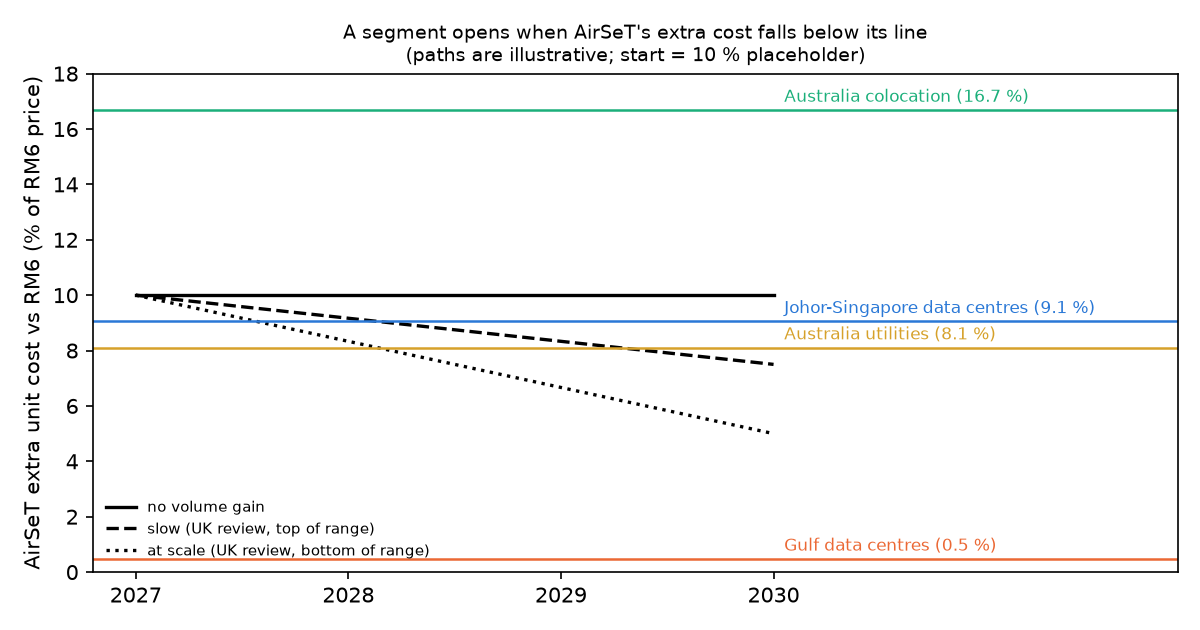
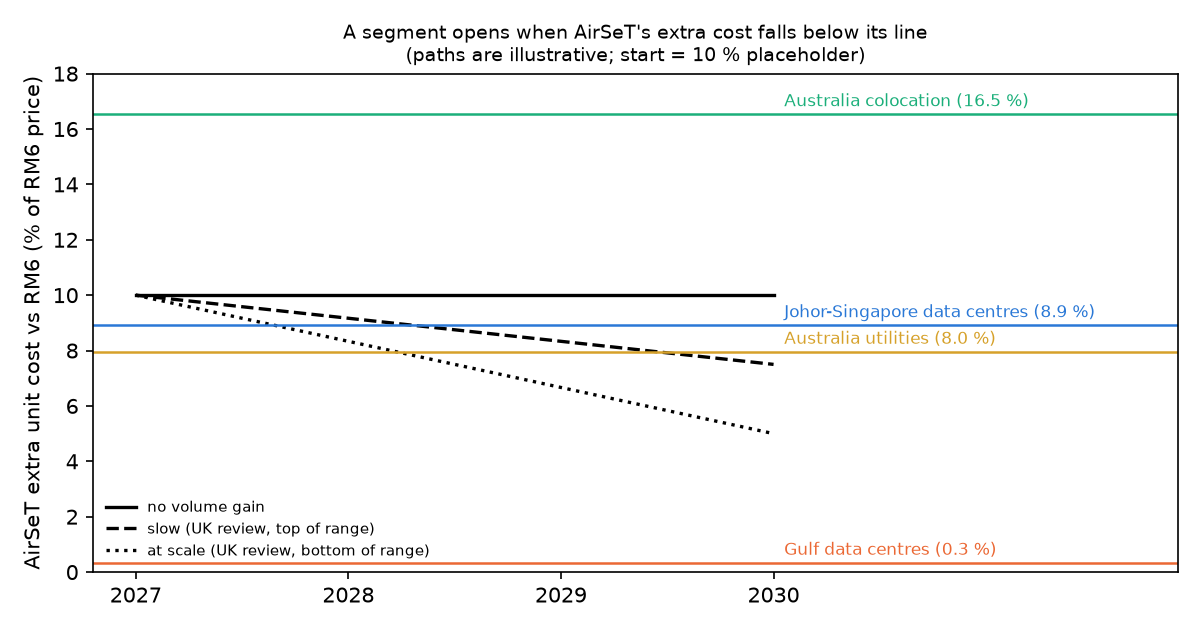
updated strategy with new bom

Changed region(s): [[0.0617, 0.4825, 0.9867, 0.573], [0.0617, 0.1206, 0.9867, 0.2111], [0.0617, 0.8444, 0.9867, 0.9048]]

diff --git a/src/strategy.py b/src/strategy.py
@@ -133,7 +133,7 @@ def triggers(p2: MarketEvidence) -> pd.DataFrame:
         ("AirSeT raw-material cost (Problem 1 monthly run)",
          f"> EUR {air9.cost_p90_eur:.0f} by Jun 2027 (9-month P90)",
          "P1 Step 9 outlook_2027.csv",
-         "Steel/stainless clause triggers; re-quote fixed-price offers; check the price floor"),
+         "Copper/steel/stainless clause triggers; re-quote fixed-price offers; check the price floor"),
         ("RM6 raw-material cost",
          f"> EUR {rm6_9.cost_p90_eur:.0f} by Jun 2027 (9-month P90; a floor, copper tail)",
          "P1 Step 9 outlook_2027.csv",
@@ -141,7 +141,7 @@ def triggers(p2: MarketEvidence) -> pd.DataFrame:
         ("RM6 - AirSeT raw-material gap",
          f"change > +EUR {gap9.cost_p90_eur:.0f} (P90) or < EUR {gap9.cost_p10_eur:.0f} (P10)",
          "P1 Step 9 outlook_2027.csv",
-         "Above: mention convergence (still < 6 % of the premium). Below: AirSeT relatively "
+         "Above: mention convergence (still < 3 % of the premium). Below: AirSeT relatively "
          "dearer, re-check the floor"),
         ("AirSeT extra unit cost vs RM6 (Schneider internal)",
          f"< {js.max_extra_cost_pct:.1f} % (< {js.max_extra_cost_pct_with_entry_give:.1f} % "

diff --git a/report/problem2/04_strategy.md b/report/problem2/04_strategy.md
@@ -1,6 +1,6 @@
 # Problem 2 – Strategy: roadmap and win conditions (Step 9)
 
-*Owner: Karin · Status: draft (Step 9). Step 10, the final story, comes later.*
+*Owner: Karin · Status: draft (Step 9), BOM v1 numbers. Step 10, the final story, comes later.*
 
 > **Sources:** E-numbers refer to rows of [`market_evidence/evidence.csv`](../../market_evidence/evidence.csv). "01 §3.4" means section 3.4 of [01_market_and_regulation.md](01_market_and_regulation.md); likewise for [02](02_cost_and_tco.md) and [03](03_value_and_pricing.md). H1–H6 are the hypotheses in the [problem framing](00_problem_framing.md) (§6).
 
@@ -42,20 +42,20 @@
 
   | Segment | Opens when AirSeT's extra cost is below |
   |---|---|
-  | Australia colocation | **16.7 %** |
-  | Johor–Singapore data centres | **9.1 %** |
-  | Australia utilities | **8.1 %** |
-  | Gulf data centres | **0.5 %**: never, on cost alone |
+  | Australia colocation | **16.5 %** |
+  | Johor–Singapore data centres | **8.9 %** |
+  | Australia utilities | **8.0 %** |
+  | Gulf data centres | **0.3 %**: never, on cost alone |
 
   If the cost falls as the UK review expects at scale (E166), Johor–Singapore opens in **2028** and Australian utilities in **2029** (chart 12).
 - **The cheapest win condition is changing how customers account for the SF6 gas in their emissions.** If a data-centre operator treats the whole SF6 fill of a unit (35 t CO₂-equivalent) as a liability, instead of only the small amount that leaks, AirSeT's value rises from about €21 to about €776 per unit.
-  - At the 10 % placeholder for the extra cost, Johor–Singapore opens if the customer applies an internal carbon price of **€24/t** CO₂-equivalent instead of the €22/t median, provided it counts the whole fill.
-  - The Gulf has the same 9.1 % threshold as Johor–Singapore if its customers count the whole fill. Counting only leaks and end-of-life release, the threshold is 0.5 %.
+  - At the 10 % placeholder for the extra cost, Johor–Singapore opens if the customer applies an internal carbon price of **€25/t** CO₂-equivalent instead of the €22/t median, provided it counts the whole fill.
+  - The Gulf has the same 8.9 % threshold as Johor–Singapore if its customers count the whole fill. Counting only leaks and end-of-life release, the threshold is 0.3 %.
   - So getting SF6 into operators' accounting is worth more than any discount (03 §8).
 - **Problem 1 protects the margin; it doesn't close the gap.**
-  - Every 9-month AirSeT quote carries a steel and stainless indexation clause.
-  - Problem 1's monthly forecast is the alarm: AirSeT's raw-material cost is €583 today, with a 9-month P90 of **€688** by June 2027.
-  - The raw-material gap between RM6 and AirSeT is **not** a reason to move: it changes by at most €105 (P90), under 6 % of the premium.
+  - Every 9-month AirSeT quote carries a copper, steel and stainless indexation clause.
+  - Problem 1's monthly forecast is the alarm: AirSeT's raw-material cost is €941 today (BOM v1), with a 9-month P90 of **€1,105** by June 2027.
+  - The raw-material gap between RM6 and AirSeT is **not** a reason to move: it changes by at most €41 (P90), about 2 % of the premium.
 - **Success measure (framing §7):** AirSeT's share of new medium-voltage orders in the target markets by 2030, with the margin on each offer kept at or above RM6's. The only exception is up to 1 point on named lead-customer deals.
 
 ---
@@ -67,7 +67,7 @@
 | **Target markets and segments** | 1. Johor–Singapore data centres · 2. Gulf (Saudi Arabia, UAE) data centres · 3. Australia colocation. Second segment: utilities in Australia, Saudi Arabia and Japan. Later: US data-centre states, UK. China opportunistic only. | 01 §3.4 |
 | **Value proposition** | "Same job, same footprint, no SF6." Sell on (1) the whole SF6 fill as a liability, 35 t CO₂e per unit; (2) no SF6 paperwork where rules apply; (3) future-proof. **Don't** sell on leak-based TCO or raw-material convergence. | 03 §6 |
 | **Pricing** | A TCO-based premium per segment: ≈ 9 % Johor–Singapore, up to ≈ 16 % Australia colocation, ≈ 8 % Australian utilities. No price competition in the Gulf. Bundles (take-back, monitoring, leasing) where the window is shut. | 03 §7 |
-| **Offer structure (Problem 1)** | Quotes up to 6 months: fixed price plus ≤ 0.6 points. 9-month quotes: steel and stainless indexation clause plus a small uplift. | 03 §7.5, P1 Step 9 |
+| **Offer structure (Problem 1)** | Quotes up to 6 months: fixed price plus ≤ 0.6 points. 9-month quotes: copper, steel and stainless indexation clause plus a small uplift. | 03 §7.5, P1 Step 9 |
 | **Adoption levers** | SF6 into operators' accounting (iMasons declarations) · "SF6-free" in specifications and framework agreements · AirTrunk reference site · SEC pilot · take-back · training · channel incentives | 03 §8 |
 | **Roadmap and win conditions** | This report: §9.2–9.5 | – |
 
@@ -83,14 +83,14 @@
 
 | Market | Move | Price | Why now |
 |---|---|---|---|
-| **Australia colocation** | Sell AirSeT as the default offer to colocation operators; price just under Eaton | TCO-based, up to ≈ 16 % | The only window open today: import licence, levy and upkeep already cost the customer (03 §7.2). ⚠ Rests on €50/yr of SF6 upkeep; without it the threshold is 9.1 %, as in Johor (§9.3). |
-| **Johor–Singapore** | **AirTrunk lead deal and reference site** in Johor. AirTrunk counts SF6 in Scope 1 and is exploring SF6-free equipment (E85) | ≈ 9 %, accepting up to 1 margin point as an entry price | With a 1-point entry give, the window opens up to a 10.1 % extra cost, so it is open at the placeholder (§9.3) |
+| **Australia colocation** | Sell AirSeT as the default offer to colocation operators; price just under Eaton | TCO-based, up to ≈ 16 % | The only window open today: import licence, levy and upkeep already cost the customer (03 §7.2). ⚠ Rests on €50/yr of SF6 upkeep; without it the threshold is 8.9 %, as in Johor (§9.3). |
+| **Johor–Singapore** | **AirTrunk lead deal and reference site** in Johor. AirTrunk counts SF6 in Scope 1 and is exploring SF6-free equipment (E85) | ≈ 9 %, accepting about 1 margin point as an entry price | With a 1-point entry give, the window opens up to a 9.9 % extra cost, just short of the 10 % placeholder: opening it in 2027 takes 1.1 points (03 §7.6), or a cost below 9.9 % (§9.3) |
 | **Gulf** | Framework agreements with private AI and data-centre campus developers; join SEC's SF6-free pilots | List price for customers with their own SF6 policy; otherwise a few reference projects only | Fastest growth (Saudi Arabia ≈ +59 %/yr). Build volume; don't buy share. SEC's RMU specification still requires SF6 (E28). |
 
 **Enablers, all markets, 2027:**
 - **Get SF6 into operators' accounting:** propose an SF6 line in iMasons environmental declarations (E113), and give customers a per-unit figure of 35 t CO₂e.
 - **Bundle:** take-back of old SF6 units (≥ 99 % recovered, E17) and a monitoring service contract.
-- **Steel and stainless indexation clause** as standard on every 9-month AirSeT quote (P1 Step 9).
+- **Copper, steel and stainless indexation clause** as standard on every 9-month AirSeT quote (P1 Step 9).
 - **Get the real AirSeT extra unit cost** from the organisers' cost overview. It replaces the 10 % placeholder that every threshold depends on.
 - **Footprint check** on each tender (E171 vs E168) before claiming "same footprint".
 
@@ -123,27 +123,27 @@
 
 | Segment | How SF6 is counted | Customer ceiling | **Opens if AirSeT's extra cost <** | … with 1-point entry give | Or if the carbon price ≥ (at 10 % extra cost) | Carbon price for today's 22 % premium |
 |---|---|---|---|---|---|---|
-| Australia colocation | Whole fill + SF6 upkeep | 16.6 % | **16.7 %** | 17.7 % | €5/t (already met) | €35/t |
-| Johor–Singapore data centres | Whole fill | 8.9 % | **9.1 %** | 10.1 % | **€24/t** | €54/t |
-| Australia utilities | Leaks + end of life + upkeep | 8.0 % | **8.1 %** | 9.1 % | €165/t | €1,080/t |
-| Gulf data centres | Leaks + end of life | 0.4 % | **0.5 %** | 1.5 % | €741/t | €1,657/t |
-| *Gulf, if it counts the whole fill* | Whole fill | 8.9 % | 9.1 % | 10.1 % | €24/t | €54/t |
-| *Australia colocation, without SF6 upkeep* | Whole fill | 8.9 % | 9.1 % | 10.1 % | €24/t | €54/t |
+| Australia colocation | Whole fill + SF6 upkeep | 16.6 % | **16.5 %** | 17.5 % | €6/t (already met) | €35/t |
+| Johor–Singapore data centres | Whole fill | 8.9 % | **8.9 %** | 9.9 % | **€25/t** | €54/t |
+| Australia utilities | Leaks + end of life + upkeep | 8.0 % | **8.0 %** | 9.0 % | €177/t | €1,080/t |
+| Gulf data centres | Leaks + end of life | 0.4 % | **0.3 %** | 1.3 % | €753/t | €1,657/t |
+| *Gulf, if it counts the whole fill* | Whole fill | 8.9 % | 8.9 % | 9.9 % | €25/t | €54/t |
+| *Australia colocation, without SF6 upkeep* | Whole fill | 8.9 % | 8.9 % | 9.9 % | €25/t | €54/t |
 
 How to read it:
 - **"Opens if AirSeT's extra cost <":** below this, there is a premium at which the customer saves over the unit's life **and** Schneider keeps RM6's margin. It doesn't depend on the 10 % placeholder.
 - **"Or if the carbon price ≥":** if the extra cost stays at 10 %, the carbon price the customer would need to apply to SF6 for the window to open.
-- **Johor–Singapore is close:** €24/t against a €22/t median internal price, or 1 point of margin.
-- **The Gulf and utilities can't be opened by carbon prices.** €165–741/t is far above any price that reaches them (01 §6). They need volume, bundles, or a change in how they count SF6.
+- **Johor–Singapore is close:** €25/t against a €22/t median internal price, or 1.1 points of margin.
+- **The Gulf and utilities can't be opened by carbon prices.** €177–753/t is far above any price that reaches them (01 §6). They need volume, bundles, or a change in how they count SF6.
 
 ### The win conditions, as statements
 
 | # | Win condition | Threshold | Status today | Owner of the evidence |
 |---|---|---|---|---|
-| W1 | AirSeT's extra unit cost vs RM6 falls with volume | < 9.1 % for Johor–Singapore, < 8.1 % for Australian utilities | **Unknown** (10 % placeholder) | Organisers' cost overview (framing §8) |
+| W1 | AirSeT's extra unit cost vs RM6 falls with volume | < 8.9 % for Johor–Singapore, < 8.0 % for Australian utilities | **Unknown** (10 % placeholder) | Organisers' cost overview (framing §8) |
 | W2 | Target data-centre operators count the **whole SF6 fill**, not only leaks | Ceiling rises from 0.4 % to 8.9 % | 1 of 11 operators counts SF6 at all (AirTrunk) | 01 §7 |
 | W3 | A lead customer signs and becomes a public reference | AirTrunk in Johor in 2027 | No contact yet (03 §6.4) | Sales |
-| W4 | Raw-material risk stays priced, not absorbed | Every 9-month AirSeT quote has a steel and stainless clause; realised erosion stays within the quote rule's accepted loss | Rule exists (P1 Step 9) | Problem 1 |
+| W4 | Raw-material risk stays priced, not absorbed | Every 9-month AirSeT quote has a copper, steel and stainless clause; realised erosion stays within the quote rule's accepted loss | Rule exists (P1 Step 9) | Problem 1 |
 | W5 | AirSeT keeps the same footprint as RM6 in data-centre electrical rooms | Vendor claim holds per project | Schneider claim (E171) vs UK review +20–30 % (E168) | Product team |
 | W6 | AirSeT's price stays at or below Eaton's in Australia and Singapore | Rival price ≥ AirSeT's TCO-based price | Not observed (synthetic EU prices only) | Sales intelligence |
 
@@ -156,11 +156,11 @@ How to read it:
 | Segment | No volume gain (10 % flat) | Slow (→ 7.5 % in 2030) | At scale (→ 5 % in 2030) | At scale, with 1-point entry give |
 |---|---|---|---|---|
 | Australia colocation | 2027 | 2027 | 2027 | 2027 |
-| Johor–Singapore data centres | never | 2029 | **2028** | 2027 |
+| Johor–Singapore data centres | never | 2029 | **2028** | 2028 |
 | Australia utilities | never | 2030 | **2029** | 2028 |
 | Gulf data centres | never | never | never | never |
 
-**The paths are illustrative, not a forecast.** They start at the 10 % placeholder and assume AirSeT's extra cost falls in the same proportion as the UK review's expected premium, from 15–30 % today to 5–10 % at scale (E166). The thresholds hold whatever the path. Once the real extra cost is known, read the opening year off chart 12.
+**The paths are illustrative, not a forecast.** They start at the 10 % placeholder and assume AirSeT's extra cost falls in the same proportion as the UK review's expected premium, from 15–30 % today to 5–10 % at scale (E166). The thresholds hold whatever the path. Once the real extra cost is known, read the opening year off chart 12. With BOM v1, a 1-point entry give no longer opens Johor–Singapore in 2027 (9.9 % threshold vs the 10 % placeholder); it brings the slow path forward from 2029 to 2028.
 
 ---
 
@@ -171,10 +171,10 @@ How to read it:
 | **AirSeT share of RMU orders** in each target market | The success measure (framing §7) | Baseline in 2027; target **to agree** with the client | Sales, quarterly |
 | AirSeT share of RMU **quotes**, and **win rate** on AirSeT quotes vs Eaton | Leading indicator of share; tests W6 | Win rate ≥ RM6's in the same market | Sales, quarterly |
 | **Margin vs RM6 per offer** (points) | "Profitably" | ≥ 0 points; ≥ −1 point on named lead-customer deals | Finance, per offer |
-| **AirSeT extra unit cost vs RM6** | W1: decides when each segment opens | < 9.1 % (Johor–Singapore), < 8.1 % (Australian utilities) | Finance, half-yearly |
+| **AirSeT extra unit cost vs RM6** | W1: decides when each segment opens | < 8.9 % (Johor–Singapore), < 8.0 % (Australian utilities) | Finance, half-yearly |
 | **Target customers counting SF6** (whole fill) | W2: raises the ceiling from 0.4 % to 8.9 % | 1 of 11 today (AirTrunk); target **to agree** | Sustainability reports, yearly |
 | **Reference sites** | W3 | ≥ 1 per priority market by end 2027 (proposed) | Sales |
-| **9-month AirSeT quotes with a steel and stainless clause** | W4 | 100 % | Sales ops, per quote |
+| **9-month AirSeT quotes with a copper, steel and stainless clause** | W4 | 100 % | Sales ops, per quote |
 | **Realised raw-material erosion on AirSeT quotes** | W4: checks Problem 1's buffer | Within the quote rule's accepted loss | Problem 1 monthly run |
 | **CO₂e avoided** | ESG claim to customers | 35 t per unit (whole fill); 2.8 t (leaks over 40 years) | [`co2_avoided.csv`](04_tables/co2_avoided.csv) |
 
@@ -196,11 +196,11 @@ Report the **whole-fill** figure as "SF6 kept out of the installed base", and th
 
 | Watch | Threshold | Action | Source |
 |---|---|---|---|
-| **AirSeT raw-material cost** (Problem 1 monthly run) | > **€688** by Jun 2027 (9-month P90; €583 today) | The steel and stainless clause triggers; re-quote fixed-price offers; check the price floor | P1 Step 9 |
-| **RM6 raw-material cost** | > **€946** by Jun 2027 (9-month P90; a floor, because copper's upside tail was underestimated) | Copper clause on RM6 quotes. The gap narrows, so mention it in tenders | P1 Step 9 |
-| **RM6 − AirSeT raw-material gap** | Change > **+€105** (P90) or < **−€66** (P10) | Above: "convergence" can be mentioned, but it is still < 6 % of the premium. Below: AirSeT is relatively dearer; re-check the floor | P1 Step 9 |
-| **AirSeT extra unit cost** | < **9.1 %** (< 10.1 % with entry give) | **Accelerate:** open Johor–Singapore at the TCO-based price (Phase 2) | §9.3 |
-| **Carbon price a target customer applies to SF6** | ≥ **€24/t**, counting the whole fill | **Accelerate:** the Johor–Singapore window opens at today's cost | §9.3 |
+| **AirSeT raw-material cost** (Problem 1 monthly run) | > **€1,105** by Jun 2027 (9-month P90; €941 today) | The copper, steel and stainless clause triggers; re-quote fixed-price offers; check the price floor | P1 Step 9 |
+| **RM6 raw-material cost** | > **€1,098** by Jun 2027 (9-month P90; a floor, because copper's upside tail was underestimated) | Copper clause on RM6 quotes. The gap narrows, so mention it in tenders | P1 Step 9 |
+| **RM6 − AirSeT raw-material gap** | Change > **+€41** (P90) or < **−€45** (P10) | Above: "convergence" can be mentioned, but it is still < 3 % of the premium. Below: AirSeT is relatively dearer; re-check the floor | P1 Step 9 |
+| **AirSeT extra unit cost** | < **8.9 %** (< 9.9 % with entry give) | **Accelerate:** open Johor–Singapore at the TCO-based price (Phase 2) | §9.3 |
+| **Carbon price a target customer applies to SF6** | ≥ **€25/t**, counting the whole fill | **Accelerate:** the Johor–Singapore window opens at today's cost | §9.3 |
 | **Carbon price that justifies today's 22 % premium** | ≥ **€54/t** (whole fill) | Move ESG-led segments from the TCO-based price to the list price | 02 §4.4 |
 | **SF6 rule in a target market** | Status 0/1 → 2 or 3 (phase-out adopted, or a ban) | **Accelerate:** future-proof pitch, list price, more sales capacity. Candidates: US states, UK (01 §2.1) | `regulation.csv` |
 | **SF6-free rival price** (Eaton, Chinese dry-air RMUs) | Below AirSeT's TCO-based price in a target market | Defend with the bundle before cutting price. **Pause** the market if the price would have to go below the floor | `competitors.csv` |
@@ -215,8 +215,8 @@ Report the **whole-fill** figure as "SF6 kept out of the installed base", and th
 | H1 | Operators apply one SF6-free standard worldwide | **Not supported:** 9 of 11 never mention SF6 (01 §7). Hence lever W2 |
 | H2 | Non-EU markets will regulate soon | **Partly:** US states and the UK; not Asia or the Middle East before 2030 (01 §2.1). Hence Phase 3 triggers |
 | H3 | TCO favours AirSeT once the whole fill is valued | **Only in the whole-fill view:** break-even €54/t; ≈ 9 % premium at €22/t (02 §4.4) |
-| H4 | The raw-material outlook narrows the cost gap | **Direction yes, size no:** 0.5 % of the premium at P50 (02 §5) |
-| H5 | AirSeT can be priced closer to RM6 without losing margin | **Yes where the extra cost allows:** today in Australia colocation; in Johor–Singapore below 9.1 %. Raw-material risk is not the obstacle: €53 for AirSeT vs €64 for RM6 on a 9-month quote, covered by the clause (03 §7). **The extra unit cost is.** |
+| H4 | The raw-material outlook narrows the cost gap | **Direction yes, size no:** 0.3 % of the premium at P50 (02 §5) |
+| H5 | AirSeT can be priced closer to RM6 without losing margin | **Yes where the extra cost allows:** today in Australia colocation; in Johor–Singapore below 8.9 %. Raw-material risk is not the obstacle: €83 for AirSeT vs €81 for RM6 on a 9-month quote, covered by the clause (03 §7). **The extra unit cost is.** |
 | H6 | EU convergence repeats elsewhere | **Not through raw materials.** Through volume (the extra-cost path, §9.3) or regulation (triggers, §9.5) |
 
 ---
@@ -242,7 +242,7 @@ Report the **whole-fill** figure as "SF6 kept out of the installed base", and th
 | Extra-cost paths to 2030 | Flat 10 %, → 7.5 %, → 5 % | Opening years in §9.3 | Illustrative: UK review premium ratio (E166) applied to cost |
 | Margin given up vs RM6 | 0 points; 1 point for named lead-customer deals | +1 point on each threshold | **To agree** with the team |
 | Customer carbon price | €22/t (CDP median internal price, E56) | Ceilings | Sourced |
-| SF6 upkeep in Australia | €50/yr (optimistic value) | Australia colocation 16.7 % vs 9.1 % without | The rules found target imports, not owners (03 §7.2); **to confirm** |
+| SF6 upkeep in Australia | €50/yr (optimistic value) | Australia colocation 16.5 % vs 8.9 % without | The rules found target imports, not owners (03 §7.2); **to confirm** |
 | Problem 1 raw-material risk | 9-month quote, 0.5 points accepted loss, 90 % confidence, steel PPI | ±0.1 point on every threshold | As in Step 7 |
 
 ## 9.9 Limits
@@ -257,10 +257,10 @@ Report the **whole-fill** figure as "SF6 kept out of the installed base", and th
 ## 9.10 Open points for the team
 
 1. **Organisers' cost overview** ("RM AirSeT and RM6 Product and Cost Overview"). Rerun `src.value_pricing` and `src.strategy` with the real extra cost, then update §9.2–9.3.
-2. **Margin give for lead customers (1 point):** agree it with the team. It opens Johor–Singapore in 2027.
+2. **Margin give for lead customers (1 point):** agree it with the team. With BOM v1, 1 point opens Johor–Singapore only if AirSeT's extra cost is below 9.9 %; at the 10 % placeholder it takes 1.1 points.
 3. **Australian SF6 upkeep:** confirm whether any owner-side rule applies. If not, Australia colocation moves to the Johor–Singapore timeline (2028 at scale).
 4. **KPI targets:** set the order-share and reference-site targets with the client.
-5. **Problem 1 dependencies:** if the corrected BOM (`a_v1`) arrives, rerun P1 Steps 8–9, then `src.value_pricing` and `src.strategy`. The raw-material triggers in §9.5 will move.
+5. **Problem 1 dependencies:** done. This report uses the corrected BOM (v1): P1 Steps 8–9, `src.value_pricing` and `src.strategy` were rerun. Thresholds moved by about 0.15 points; the raw-material triggers in §9.5 rose with the higher BOM costs (AirSeT €941, RM6 €931 per unit).
 
 ---
 
